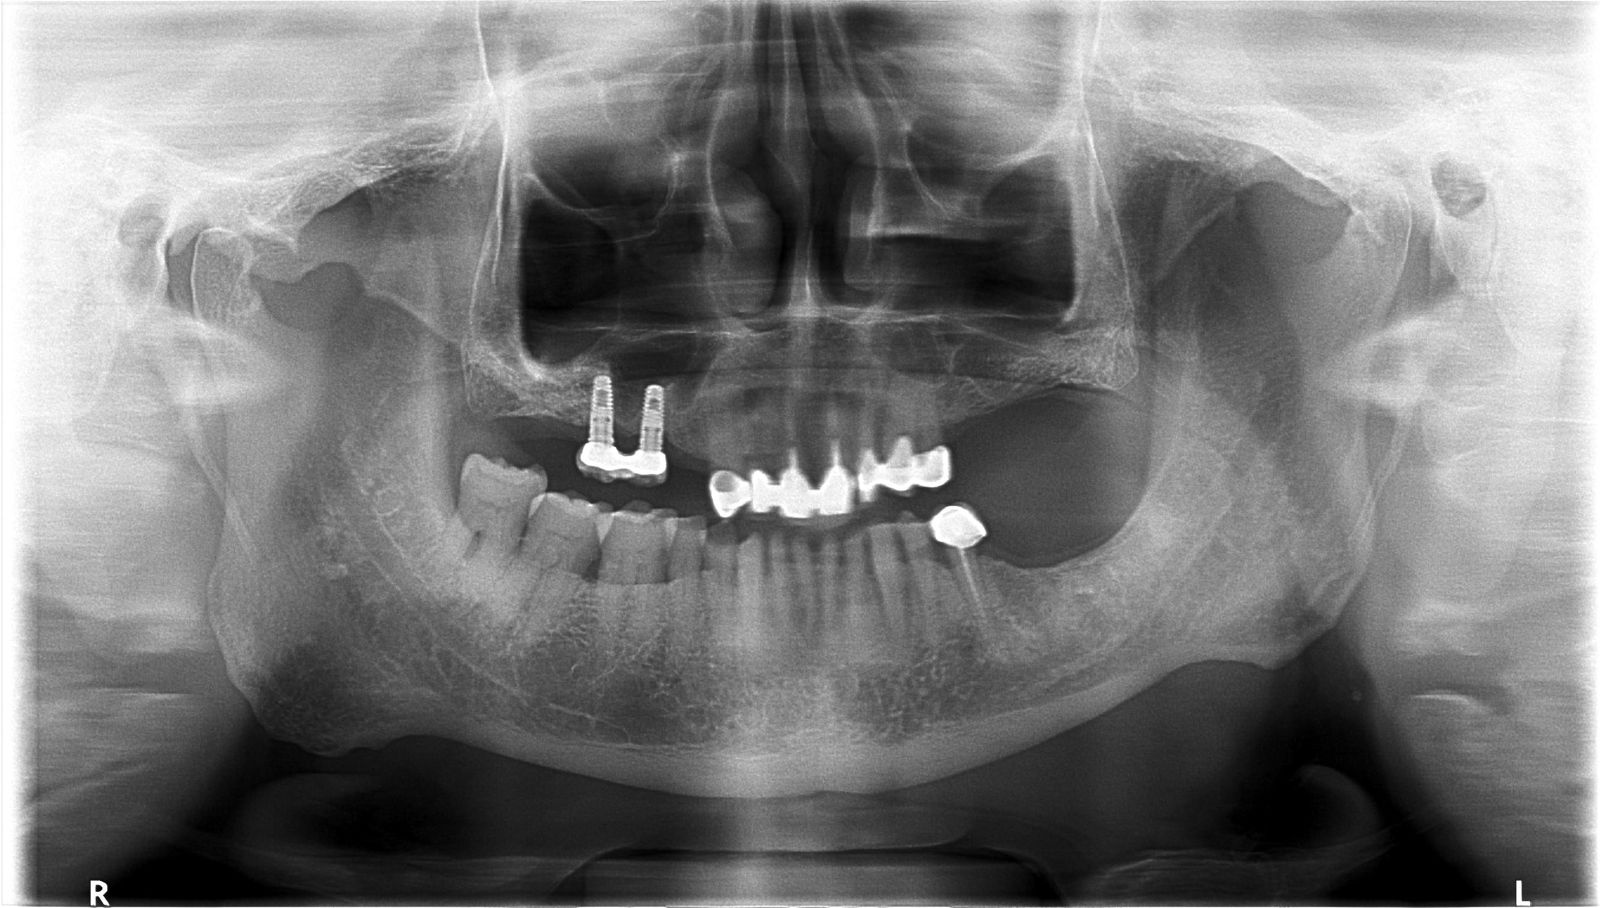
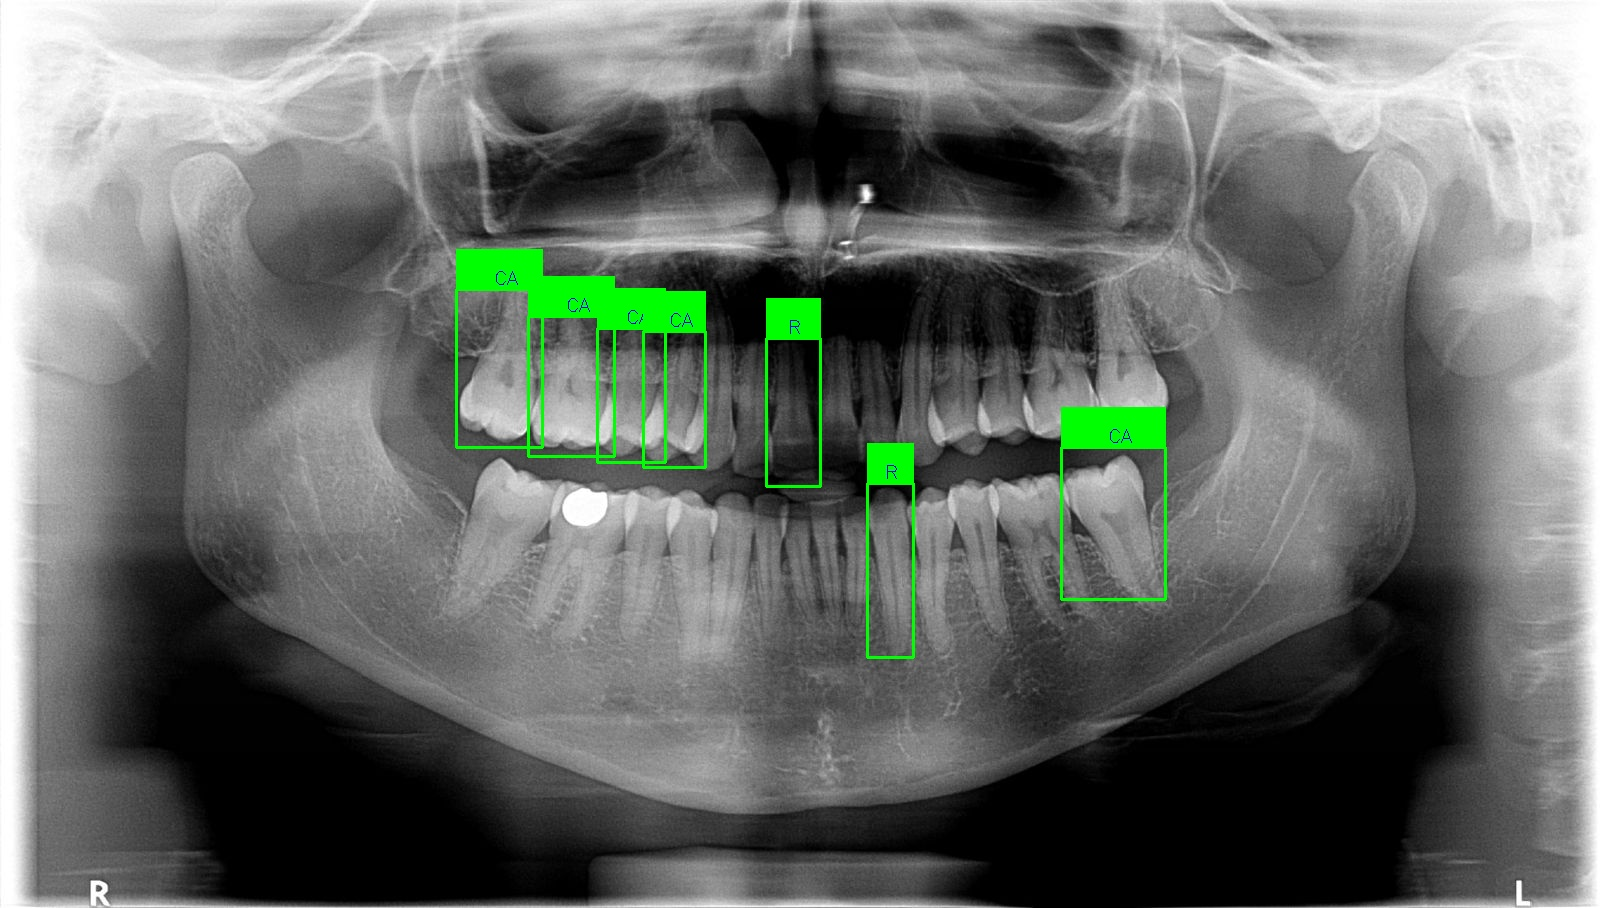
updated diagnosis

diff --git a/app.py b/app.py
@@ -5,14 +5,25 @@ from tooth_detection import run_model
 uploaded_image = st.file_uploader("Choose an image", type=["jpg", "jpeg", "png"])
 
 if uploaded_image is not None:
+    ph3 = st.empty()
     placeholder = st.image(uploaded_image, caption="Uploaded Image", use_column_width=True)
 
     image_path = "uploaded_image.jpg"
     with open(image_path, "wb") as f:
         f.write(uploaded_image.read())
 
-    run_model(image_path)
+    b1 = st.empty()
+    b1click = b1.button('Segment')
+    if(b1click):
+        b1.empty()
 
-    placeholder.empty()
+        has_disease, fp = run_model(image_path)
 
-    st.image('static/output/output.jpg', caption="Processed Image", use_column_width=True)
+        placeholder.empty()
+
+        # ph2 = st.image(f'{fp}/image0.jpg', caption="Segmented Image", use_column_width=True)
+        st.image('static/output/output.jpg', caption="Processed Image", use_column_width=True)
+
+        if not has_disease:
+            st.subheader(':green[NO DISEASES FOUND -- YOU HAVE VERY HEALTHY TEETH]')
+

diff --git a/tooth_detection.py b/tooth_detection.py
@@ -15,8 +15,9 @@ def run_model(filename):
     img = cv2.imread(filename)
 
     res = model.predict(img, save=True, save_txt=True, project='runs', name=f'photo')
+    fp = res[0].save_dir
 
-    with open(f'{res[0].save_dir}/labels/image0.txt', 'r') as f:
+    with open(f'{fp}/labels/image0.txt', 'r') as f:
         s = f.read()
 
     x = s.split('\n')
@@ -61,4 +62,4 @@ def run_model(filename):
 
     cv2.imwrite('static/output/output.jpg', img)
 
-    return has_disease
+    return (has_disease, f'{fp}')
